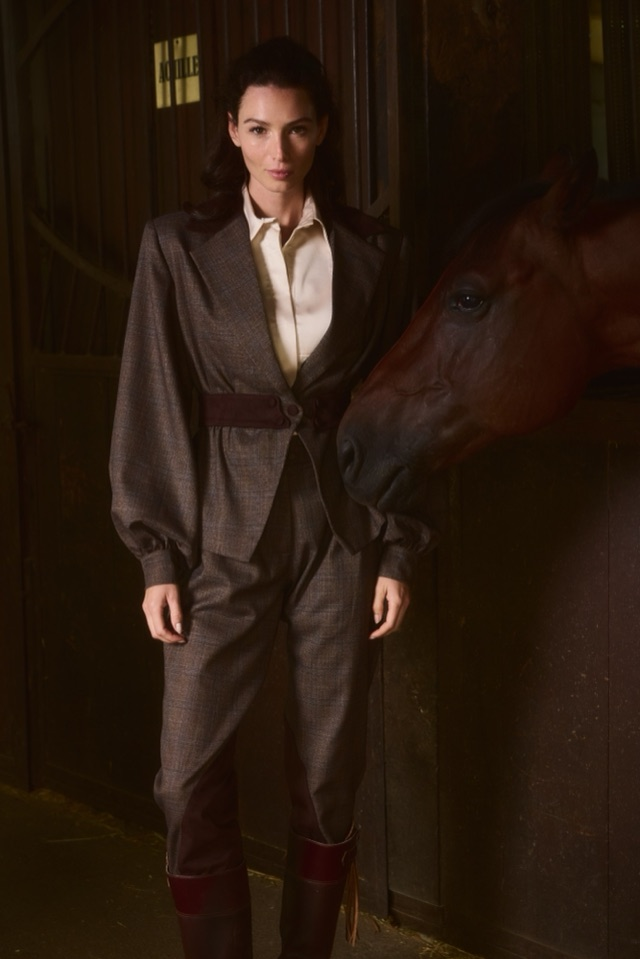
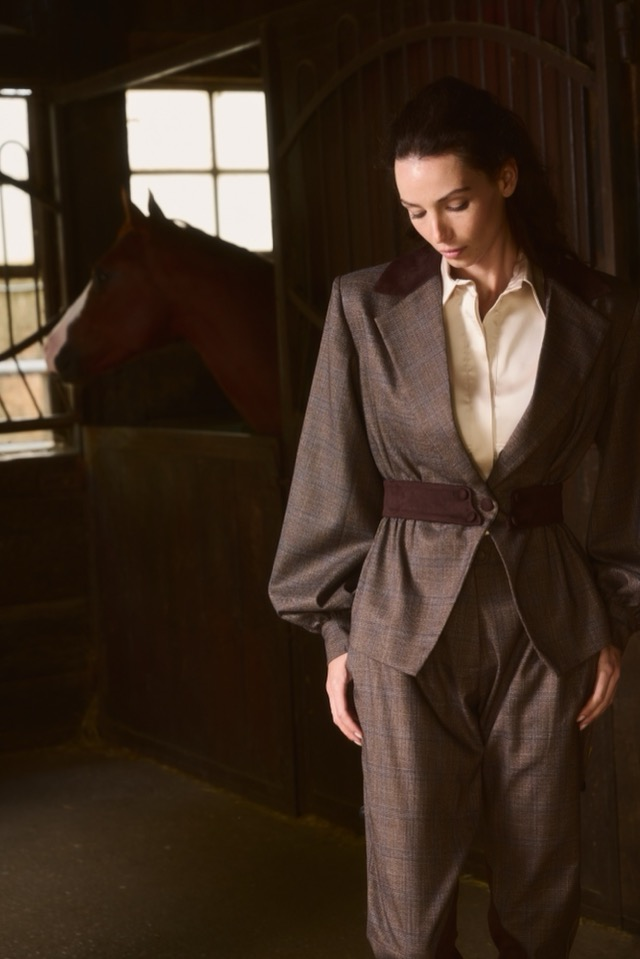
CC MAG: Made to Be Lived In gets its own photos back, cover on the still stable shot

diff --git a/src/lib/news.js b/src/lib/news.js
@@ -38,11 +38,11 @@ export const articles = [
     photos: 5,
     cover: 'cover',
     chapters: [
-      { photo: 1, paragraphs: [0, 1, 2, 3, 4, 5] }, // an art to making things with care
-      { photo: 2, heading: 0, paragraphs: [6, 7, 8, 9, 10, 11] }, // the people behind the pieces
-      { photo: 3, heading: 1, paragraphs: [12, 13, 14, 15, 16, 17] }, // designed with purpose
-      { photo: 4, heading: 2, paragraphs: [18, 19, 20, 21, 22, 23, 24, 25] }, // made to be lived in
-      { photo: 5, paragraphs: [26, 27, 28, 29, 30] }, // worth keeping
+      { photo: 1, paragraphs: [0, 1, 2, 3, 4, 5] }, // an art to making things with care: still, in the stable
+      { photo: 5, heading: 0, paragraphs: [6, 7, 8, 9, 10, 11] }, // the people behind the pieces: blazer close-up
+      { photo: 4, heading: 1, paragraphs: [12, 13, 14, 15, 16, 17] }, // designed with purpose: shirt and tack
+      { photo: 3, heading: 2, paragraphs: [18, 19, 20, 21, 22, 23, 24, 25] }, // made to be lived in: walking with the horse
+      { photo: 2, paragraphs: [26, 27, 28, 29, 30] }, // worth keeping: in the hay
     ],
   },
   {
